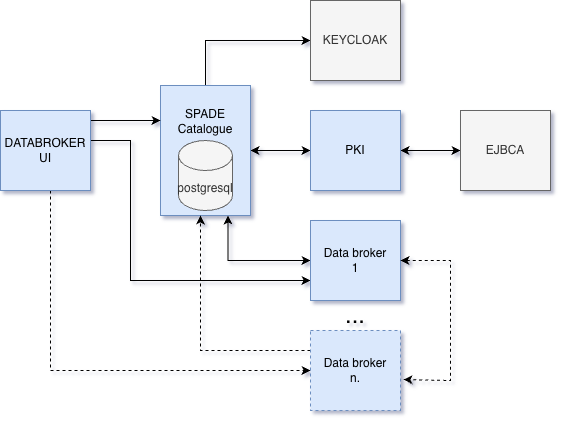
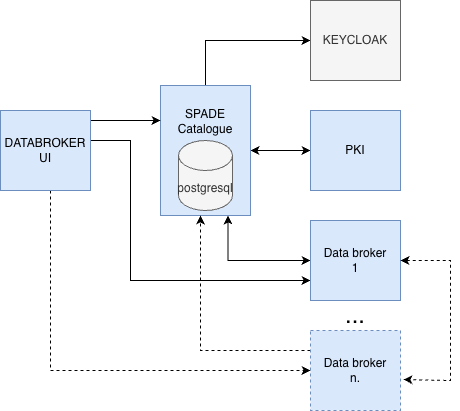
Update: - change from EJBCA to custom PKI

diff --git a/README.md b/README.md
@@ -28,10 +28,6 @@ Main API gateway for the SPADE platform. Handles authentication, authorization, 
 - **Technology**: Node.js/Express
 - **Port**: 3000 (internal)
 - **Access**: Via Traefik at configured domain
-- **Environment Variables**:
-  - Database connection details
-  - Authentication settings
-  - Service endpoints
 - **Dependencies**: Requires Keycloak for authentication
 
 #### **Catalogue**
@@ -53,17 +49,14 @@ Core data catalogue service managing metadata, schemas, and access policies for 
 - **Database Setup**: Use `initdb.sh` script for additional database initialization if needed
 
 #### **PKI Service**
-SPADE-specific PKI management service that integrates with EJBCA to provide certificate lifecycle management for SPADE participants.
+Standalone certificate authority service providing full PKI lifecycle management for SPADE participants. Issues, stores, and revokes X.509 certificates using a custom Root CA and Subordinate CA.
 
-- **Technology**: Custom PKI management layer
-- **Port**: 8080 (internal)
+- **Technology**: Python/FastAPI
+- **Port**: 80 (internal)
 - **Access**: Via Traefik at configured domain
-- **Configuration**: 
-  - Requires `config.json` in `PKI_DATA_PATH`
-  - Configure EJBCA integration settings
-  - Define certificate profiles and policies
-- **Dependencies**: EJBCA must be running
-- **Volume**: `PKI_DATA_PATH` for persistent configuration
+- **Configuration**: All settings via `.env` (mounted into container)
+- **Certificate Storage**: SQLite database in `certs/` directory
+- **Prerequisites**: Run `generateCas.sh` before first start
 - **API Documentation**: OpenAPI specification available in `openapi/swagger-pki.yaml`
 
 ### External Services
@@ -78,22 +71,11 @@ Industry-standard open-source IAM solution providing authentication and authoriz
 - **Configuration**: Set database and admin credentials in `.env`
 - **Custom Themes**: Optional - uncomment volume mount in `docker-compose.yml`
 
-#### **EJBCA** (PKI Certificate Authority)
-Enterprise-grade open-source PKI solution for certificate issuance and management.
-
-- **Version**: Keyfactor EJBCA CE 9.1.1
-- **Database**: MariaDB (auto-initialized)
-- **Documentation**: [EJBCA Official Documentation](https://doc.primekey.com/ejbca)
-- **Proxy**: Optional Apache HTTP proxy for external access
-- **Configuration**: 
-  - Database credentials in `.env`
-  - For proxy: Provide `httpd.conf` and SSL certificates
-- **Note**: Can be commented out if not using PKI features
-
 ## Prerequisites
 
 - **Docker Engine** 20.10 or higher
 - **Docker Compose** v2.0 or higher
+- **OpenSSL** (for `generateCas.sh`)
 - **Traefik** reverse proxy running with:
   - SSL certificate resolver configured (named `myresolver`)
   - External network connectivity
@@ -120,34 +102,42 @@ Edit `.env` and configure:
 - Domain names for all services
 - Docker registry and image tags
 - Database credentials (use strong passwords)
-- PKI service settings
-- EJBCA database credentials
+- Keycloak admin credentials
+- PKI service settings (see step 3)
 
-### 3. Configure PKI
+### 3. Generate CA Certificates
 
-Update `pki/data/config.json` with:
-- `ccHost`: Your catalogue domain
-- `issuerDN`: Your certificate authority distinguished name
-- `certificateProfileName`, `endEntityProfileName`, `certificateAuthorityName`: Match your EJBCA setup
-- `apiSecret`: Generate a secure base64-encoded secret
-- `keystorePassword`, `truststorePassword`: Set strong passwords
-- Place keystore files in PKCS#12 format (`superadmin.p12`, `truststore.p12`) in the PKI data directory
+Run the CA generation script to create the Root CA and Subordinate CA:
 
-### 4. Initialize EJBCA
+```bash
+./generateCas.sh
+```
 
-EJBCA must be initialized and configured before starting SPADE services. Refer to the [EJBCA Installation Guide](https://doc.primekey.com/ejbca/ejbca-installation) for setup instructions.
+This creates `certs/rootCA.p12`, `certs/subCA.p12`, and `certs/passwords.txt`.
 
-### 5. Initialize and Configure Keycloak
+Copy the **SUB CA** password from `certs/passwords.txt` into `CA_SUBCA_KEY` in your `.env` file.
+
+Also update `CRL_URL` in `.env` to match your actual `PKI_DOMAIN`:
+```
+CRL_URL=https://pki.yourdomain.com/pki/certificates/revocation-list
+```
+
+After copying the password, delete `certs/passwords.txt`:
+```bash
+rm certs/passwords.txt
+```
+
+### 4. Initialize and Configure Keycloak
 
 Configure Keycloak according to the [Keycloak Getting Started Guide](https://www.keycloak.org/getting-started). Set up realm, clients, and user federation as required for SPADE services.
 
-### 6. Start Services
+### 5. Start Services
 
 ```bash
 docker compose up -d
 ```
 
-### 7. Initialize Catalogue Database
+### 6. Initialize Catalogue Database
 
 Run the database initialization script for the catalogue service:
 
@@ -166,7 +156,7 @@ Traefik (SSL/TLS Termination & Routing)
    ├─→ Entrypoint (API Gateway)
    ├─→ Catalogue (Core Service) ─→ PostgreSQL
    ├─→ Keycloak (IAM) ─→ PostgreSQL
-   └─→ PKI Service ─→ EJBCA ─→ MariaDB
+   └─→ PKI Service (CA) ─→ certs/ (SQLite + PKCS#12)
 ```
 
 All services communicate via the internal `spade_network` Docker bridge network.
@@ -204,9 +194,7 @@ This project (SPADE Cloud Platform) is licensed under the [Apache License 2.0](h
 ### Third-Party Components
 
 - **Keycloak**: Licensed under [Apache License 2.0](https://github.com/keycloak/keycloak/blob/main/LICENSE.txt)
-- **EJBCA**: Licensed under [LGPL v2.1](https://www.primekey.com/products/software-licensing/)
 - **PostgreSQL**: Licensed under [PostgreSQL License](https://www.postgresql.org/about/licence/) (permissive open-source license)
-- **MariaDB**: Licensed under [GPL v2](https://mariadb.com/kb/en/mariadb-license/)
 - **Traefik**: Licensed under [MIT License](https://github.com/traefik/traefik/blob/master/LICENSE.md)
 
 ## Support
@@ -214,5 +202,4 @@ This project (SPADE Cloud Platform) is licensed under the [Apache License 2.0](h
 For issues specific to:
 - **SPADE services**: Contact bAvenir support at [support@bavenir.com](mailto:support@bavenir.com)
 - **Keycloak**: See [Keycloak Community](https://www.keycloak.org/community)
-- **EJBCA**: See [EJBCA Support](https://www.primekey.com/support/)
 - **Docker/Infrastructure**: Check Docker and Traefik documentation
